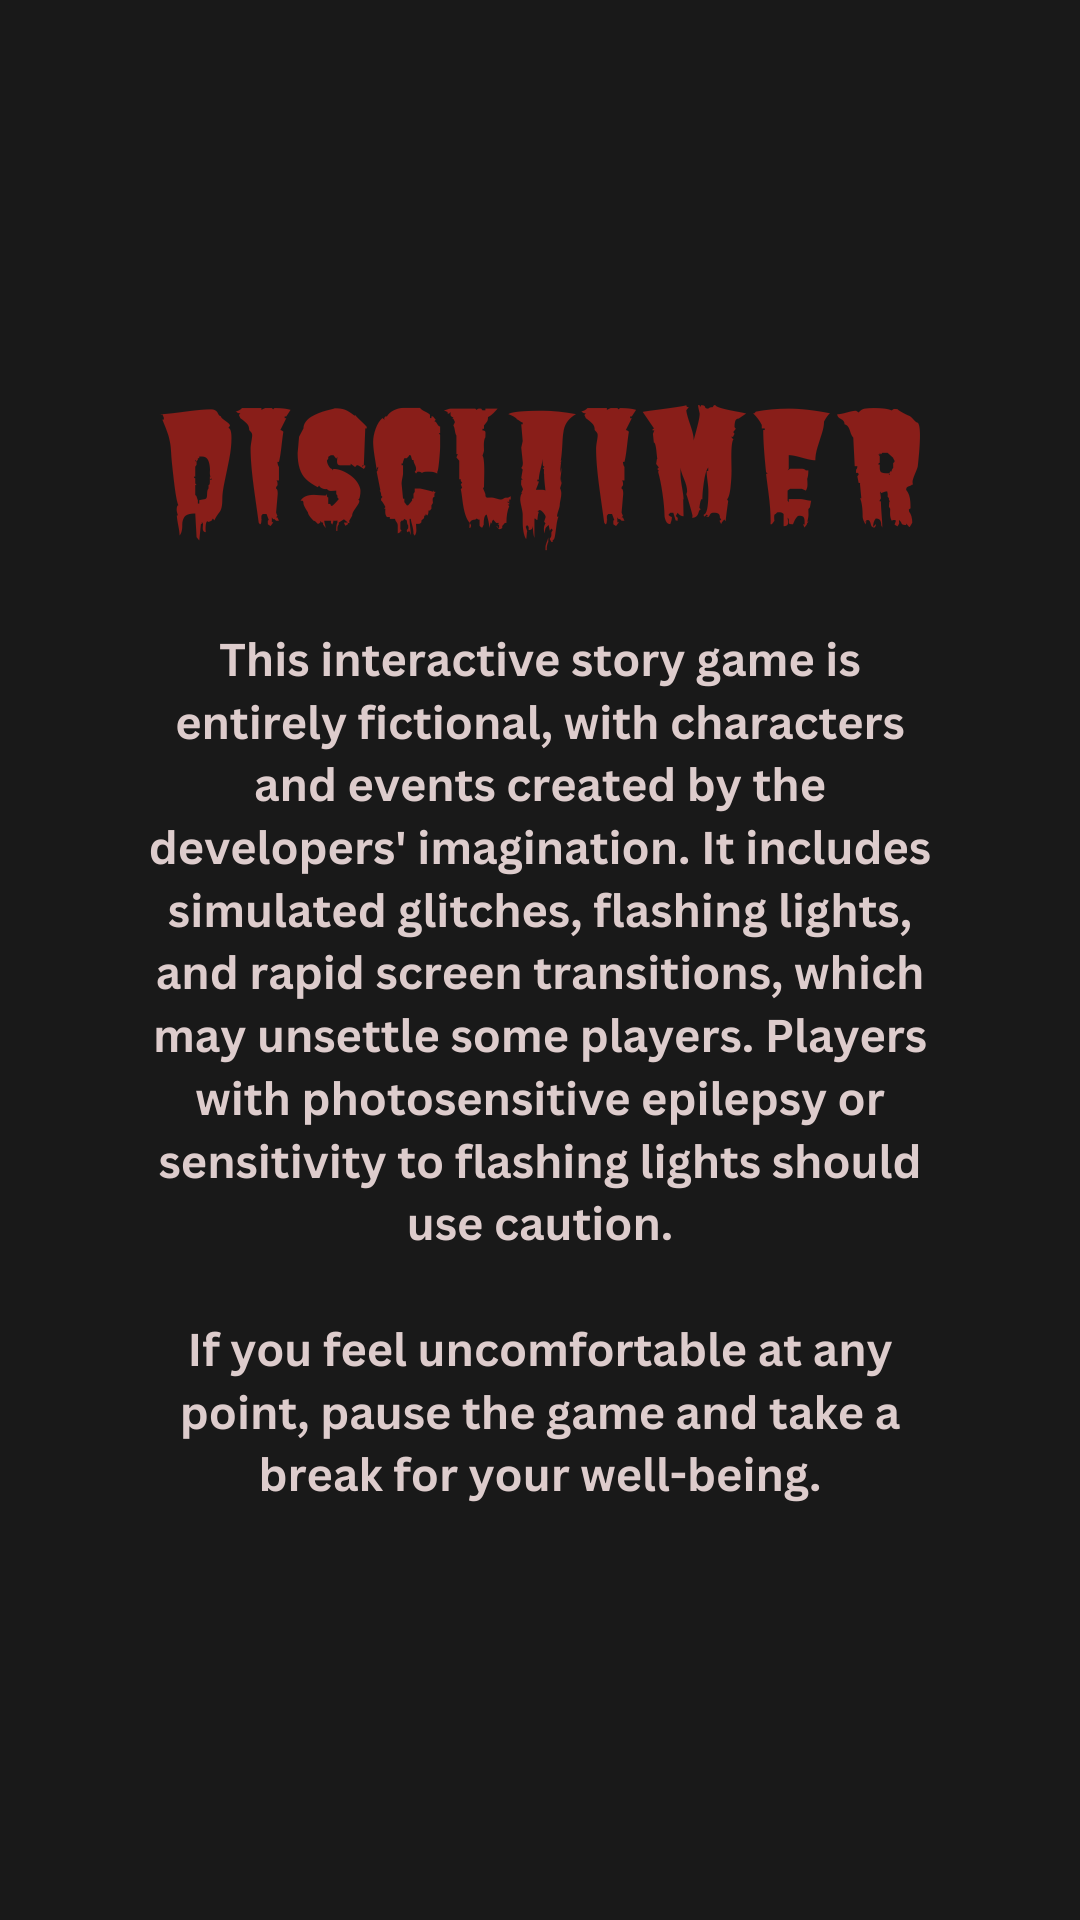
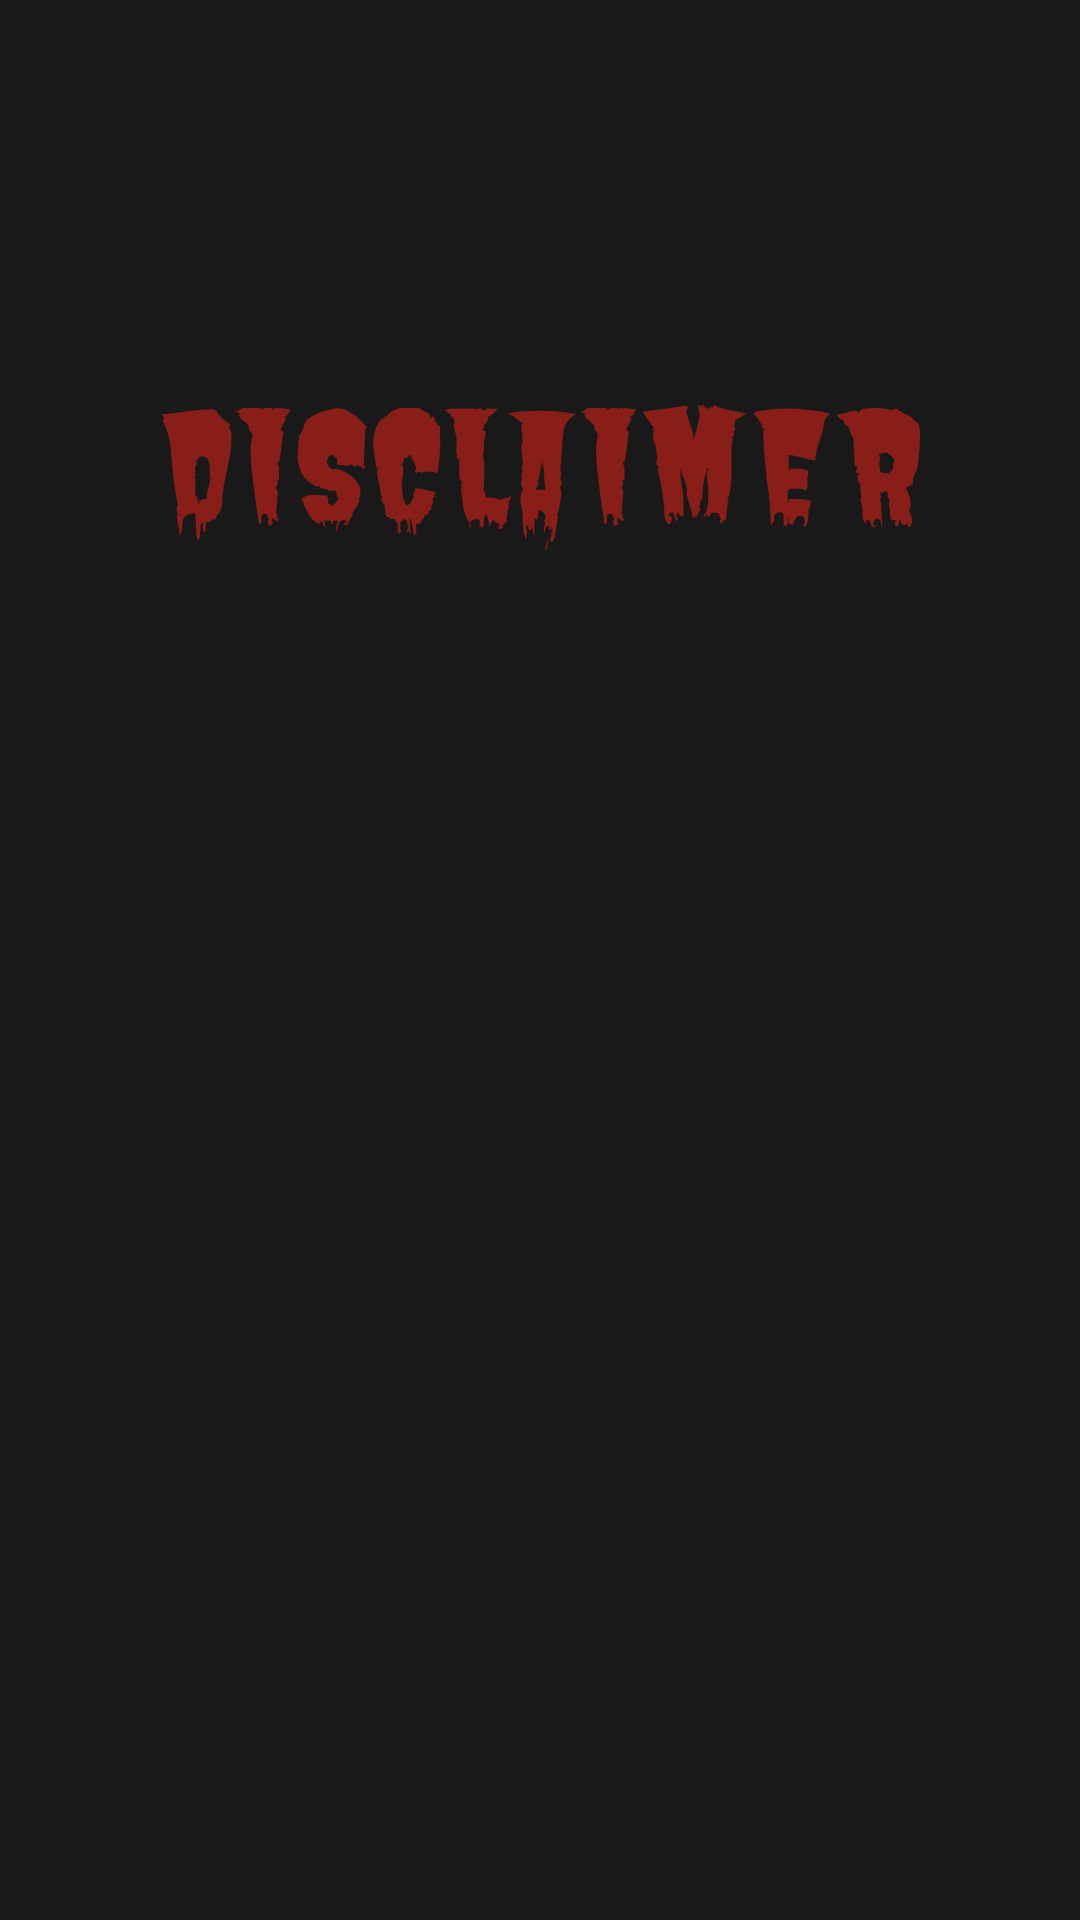
Act1 new changes

Changed region(s): [[0.1222, 0.3125, 0.8556, 0.6562], [0.1528, 0.6875, 0.825, 0.7812]]

diff --git a/finalinvitation/lib/Pages/Act1.dart/Disclaimer.dart b/finalinvitation/lib/Pages/Act1.dart/Disclaimer.dart
@@ -1,18 +1,45 @@
 import 'package:deadwhispers/Pages/Act1.dart/Gameplay.dart';
 import 'package:flutter/material.dart';
+import 'package:flutter/widgets.dart';
+import 'package:animated_text_kit/animated_text_kit.dart';
 
-class Disclaimer extends StatelessWidget {
+class Disclaimer extends StatefulWidget {
   const Disclaimer({Key? key}) : super(key: key);
+
+  @override
+  _DisclaimerState createState() => _DisclaimerState();
+}
+
+class _DisclaimerState extends State<Disclaimer> {
+  bool _isTextComplete = false;
+
+  @override
+  void initState() {
+    super.initState();
+    _isTextComplete = false;
+  }
+
+  void _onTap() {
+    if (!_isTextComplete) {
+      setState(() {
+        _isTextComplete = true;
+      });
+    } else {
+      Navigator.push(
+        context,
+        MaterialPageRoute(builder: (context) => Gameplay()),
+      ).then((_) {
+        setState(() {
+          _isTextComplete = false;
+        });
+      });
+    }
+  }
 
   @override
   Widget build(BuildContext context) {
     return GestureDetector(
-      onTap: () {
-        Navigator.push(
-          context,
-          MaterialPageRoute(builder: (context) => Gameplay()),
-        );
-      },
+      onTap: _onTap,
       child: Scaffold(
         body: Stack(
           children: [
@@ -23,6 +50,42 @@ class Disclaimer extends StatelessWidget {
                 image: DecorationImage(
                   image: AssetImage('assets/images/disclaimer.png'),
                   fit: BoxFit.cover,
+                ),
+              ),
+            ),
+            Positioned(
+              top: 290,
+              left: 0,
+              right: 0,
+              child: Center(
+                child: DefaultTextStyle(
+                  style: TextStyle(
+                    color: Color.fromARGB(255, 213, 205, 205),
+                    fontWeight: FontWeight.w600,
+                    fontSize: 20,
+                  ),
+                  child: _isTextComplete
+                      ? Text(
+                          'This interactive story game is\nentirely fictional, with characters\nand events created by the\ndevelopers\' imagination. It includes\nsimulated glitches, flashing lights,\nand rapid screen transitions, which\nmay unsettle some players. Players\nwith photosensitive epilepsy or\nsensitivity to flashing lights should\nuse caution.\n\nIf you feel uncomfortable at any\npoint, pause the game and take a\nbreak for your well-being.',
+                          textAlign: TextAlign.center,
+                        )
+                      : AnimatedTextKit(
+                          animatedTexts: [
+                            TypewriterAnimatedText(
+                              'This interactive story game is\nentirely fictional, with characters\nand events created by the\ndevelopers\' imagination. It includes\nsimulated glitches, flashing lights,\nand rapid screen transitions, which\nmay unsettle some players. Players\nwith photosensitive epilepsy or\nsensitivity to flashing lights should\nuse caution.\n\nIf you feel uncomfortable at any\npoint, pause the game and take a\nbreak for your well-being.',
+                              textAlign: TextAlign.center,
+                              speed: Duration(milliseconds: 50),
+                            ),
+                          ],
+                          totalRepeatCount: 1,
+                          pause: Duration(milliseconds: 1000),
+                          isRepeatingAnimation: false,
+                          onTap: () {
+                            setState(() {
+                              _isTextComplete = true;
+                            });
+                          },
+                        ),
                 ),
               ),
             ),

diff --git a/finalinvitation/lib/main.dart b/finalinvitation/lib/main.dart
@@ -13,7 +13,6 @@ class FinalInvitation extends StatelessWidget {
     return MaterialApp(
       debugShowCheckedModeBanner: false,
       home: MainMenu(),
-      //Angelo's added code
     );
   }
 }
